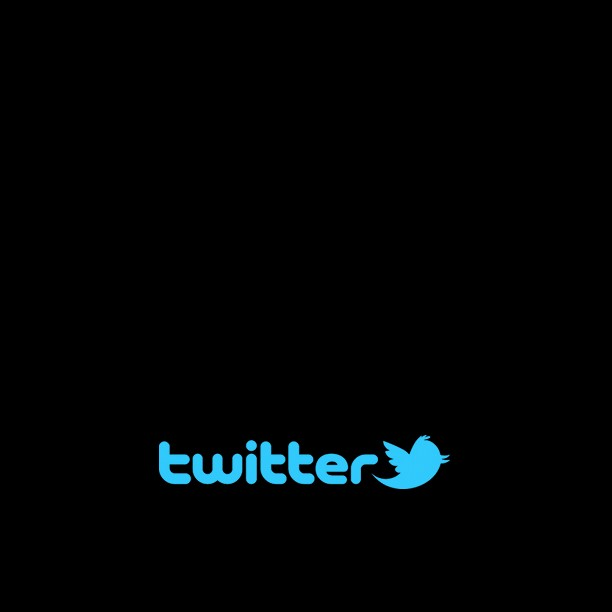
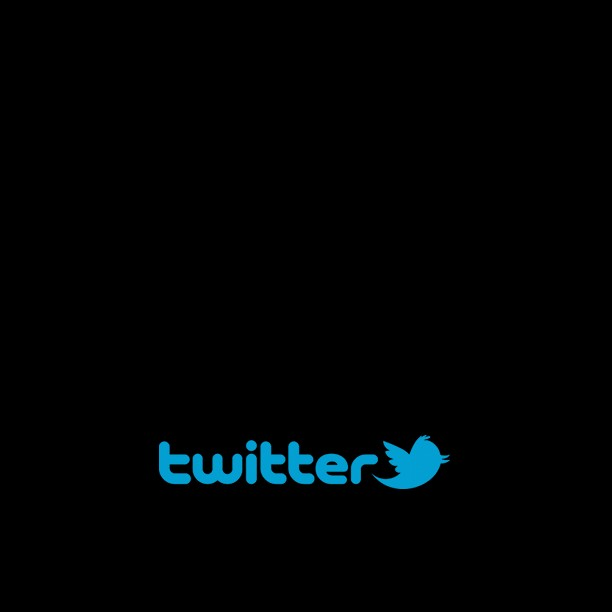
Changed Twitter image; Made footer narrower; Changed footer wording; Resized caption in js again;

Changed region(s): [[0.2484, 0.7141, 0.7451, 0.8072]]

diff --git a/js/jquery.galleriffic.js b/js/jquery.galleriffic.js
@@ -66,7 +66,7 @@
 	var defaults = {
 		delay:                     3000,
 		numThumbs:                 20,
-		preloadAhead:              -1, // Set to -1 to preload all images
+		preloadAhead:              0, // Set to -1 to preload all images
 		enableTopPager:            false,
 		enableBottomPager:         true,
 		maxPagesToShow:            7,
@@ -356,10 +356,10 @@
                     image.width = newWidth;
                     
                     // Resize caption based on width of container and width of image
-                    //cap = document.getElementById('current-caption');
-                    //cap.style.width=newWidth;
-                    //cap.style.bottom = '0px';
-                    //cap.style.left = ($("#gallery").width() - newWidth)/2 + 2 +'px';
+                    cap = document.getElementById('current-caption');
+                    cap.style.width=newWidth;
+                    cap.style.bottom = -1*newHeight - 4;
+                    cap.style.left = ($("#gallery").width() - newWidth)/2 + 5 +'px';
 
 				};
 
@@ -649,10 +649,10 @@
                         image.width = newWidth;
                         
                         // Resize caption based on width of container and width of image
-                        //cap = document.getElementById('current-caption');
-                        //cap.style.width=newWidth;
-                        //cap.style.bottom = '0px';
-                        //cap.style.left = ($("#gallery").width() - newWidth)/2 + 2 +'px';
+                        cap = document.getElementById('current-caption');
+                        cap.style.width=newWidth;
+                        cap.style.bottom = -1*newHeight - 4;
+                        cap.style.left = ($("#gallery").width() - newWidth)/2 + 5 +'px';
 
 					};
 

diff --git a/index.html b/index.html
@@ -167,7 +167,7 @@
 				var gallery = $('#thumbs').galleriffic({
 					delay:                     delay, <!--3500,-->
 					numThumbs:                 18, <!-- NCN .. was 15 -->
-					preloadAhead:              0, <!-- -1 = all -->
+					preloadAhead:              -1, <!-- -1 = all -->
 					enableTopPager:            false,
 					enableBottomPager:         false,
 					maxPagesToShow:            7,
@@ -363,10 +363,12 @@
                 console.log(email);
 
                 if (email == undefined) {
-                    $('h2#description').replaceWith('<h2 id="description">Twitter or Instagram: #' + unescape(hashtag) + '.</h2>');  
+                    //$('h2#description').replaceWith('<h2 id="description">Twitter or Instagram: #' + unescape(hashtag) + '</h2>');  
+                    $('h2#description').replaceWith('<h2 id="description">Add photos to the slideshow: Twitter or Instagram #' + unescape(hashtag) + '</h2>');  
                 }
                 else {
-                    $('h2#description').replaceWith('<h2 id="description">Twitter or Instagram: #' + unescape(hashtag) + ' | e-mail pics to ' + unescape(email) + '</h2>');  
+                    //$('h2#description').replaceWith('<h2 id="description">Twitter or Instagram: #' + unescape(hashtag) + ' | e-mail pics to ' + unescape(email) + '</h2>');  
+                    $('h2#description').replaceWith('<h2 id="description">Add photos to the slideshow: Twitter or Instagram #' + unescape(hashtag) + ', or e-mail pics to ' + unescape(email) + '</h2>');  
                 }
                 
                 //var descr = getUrlVars()["title"];

diff --git a/css/galleriffic-4.css b/css/galleriffic-4.css
@@ -47,8 +47,8 @@ div.slideshow a.advance-link {
 div#description_div {
     position: absolute; 
     bottom: 5px; 
-    width: 98%; 
-    left: 0%; 
+    width: 96%; 
+    left: 1.5%; /* seems to center it */
     background: #252525; 
     color: #fff; 
     opacity: 0.65; 
